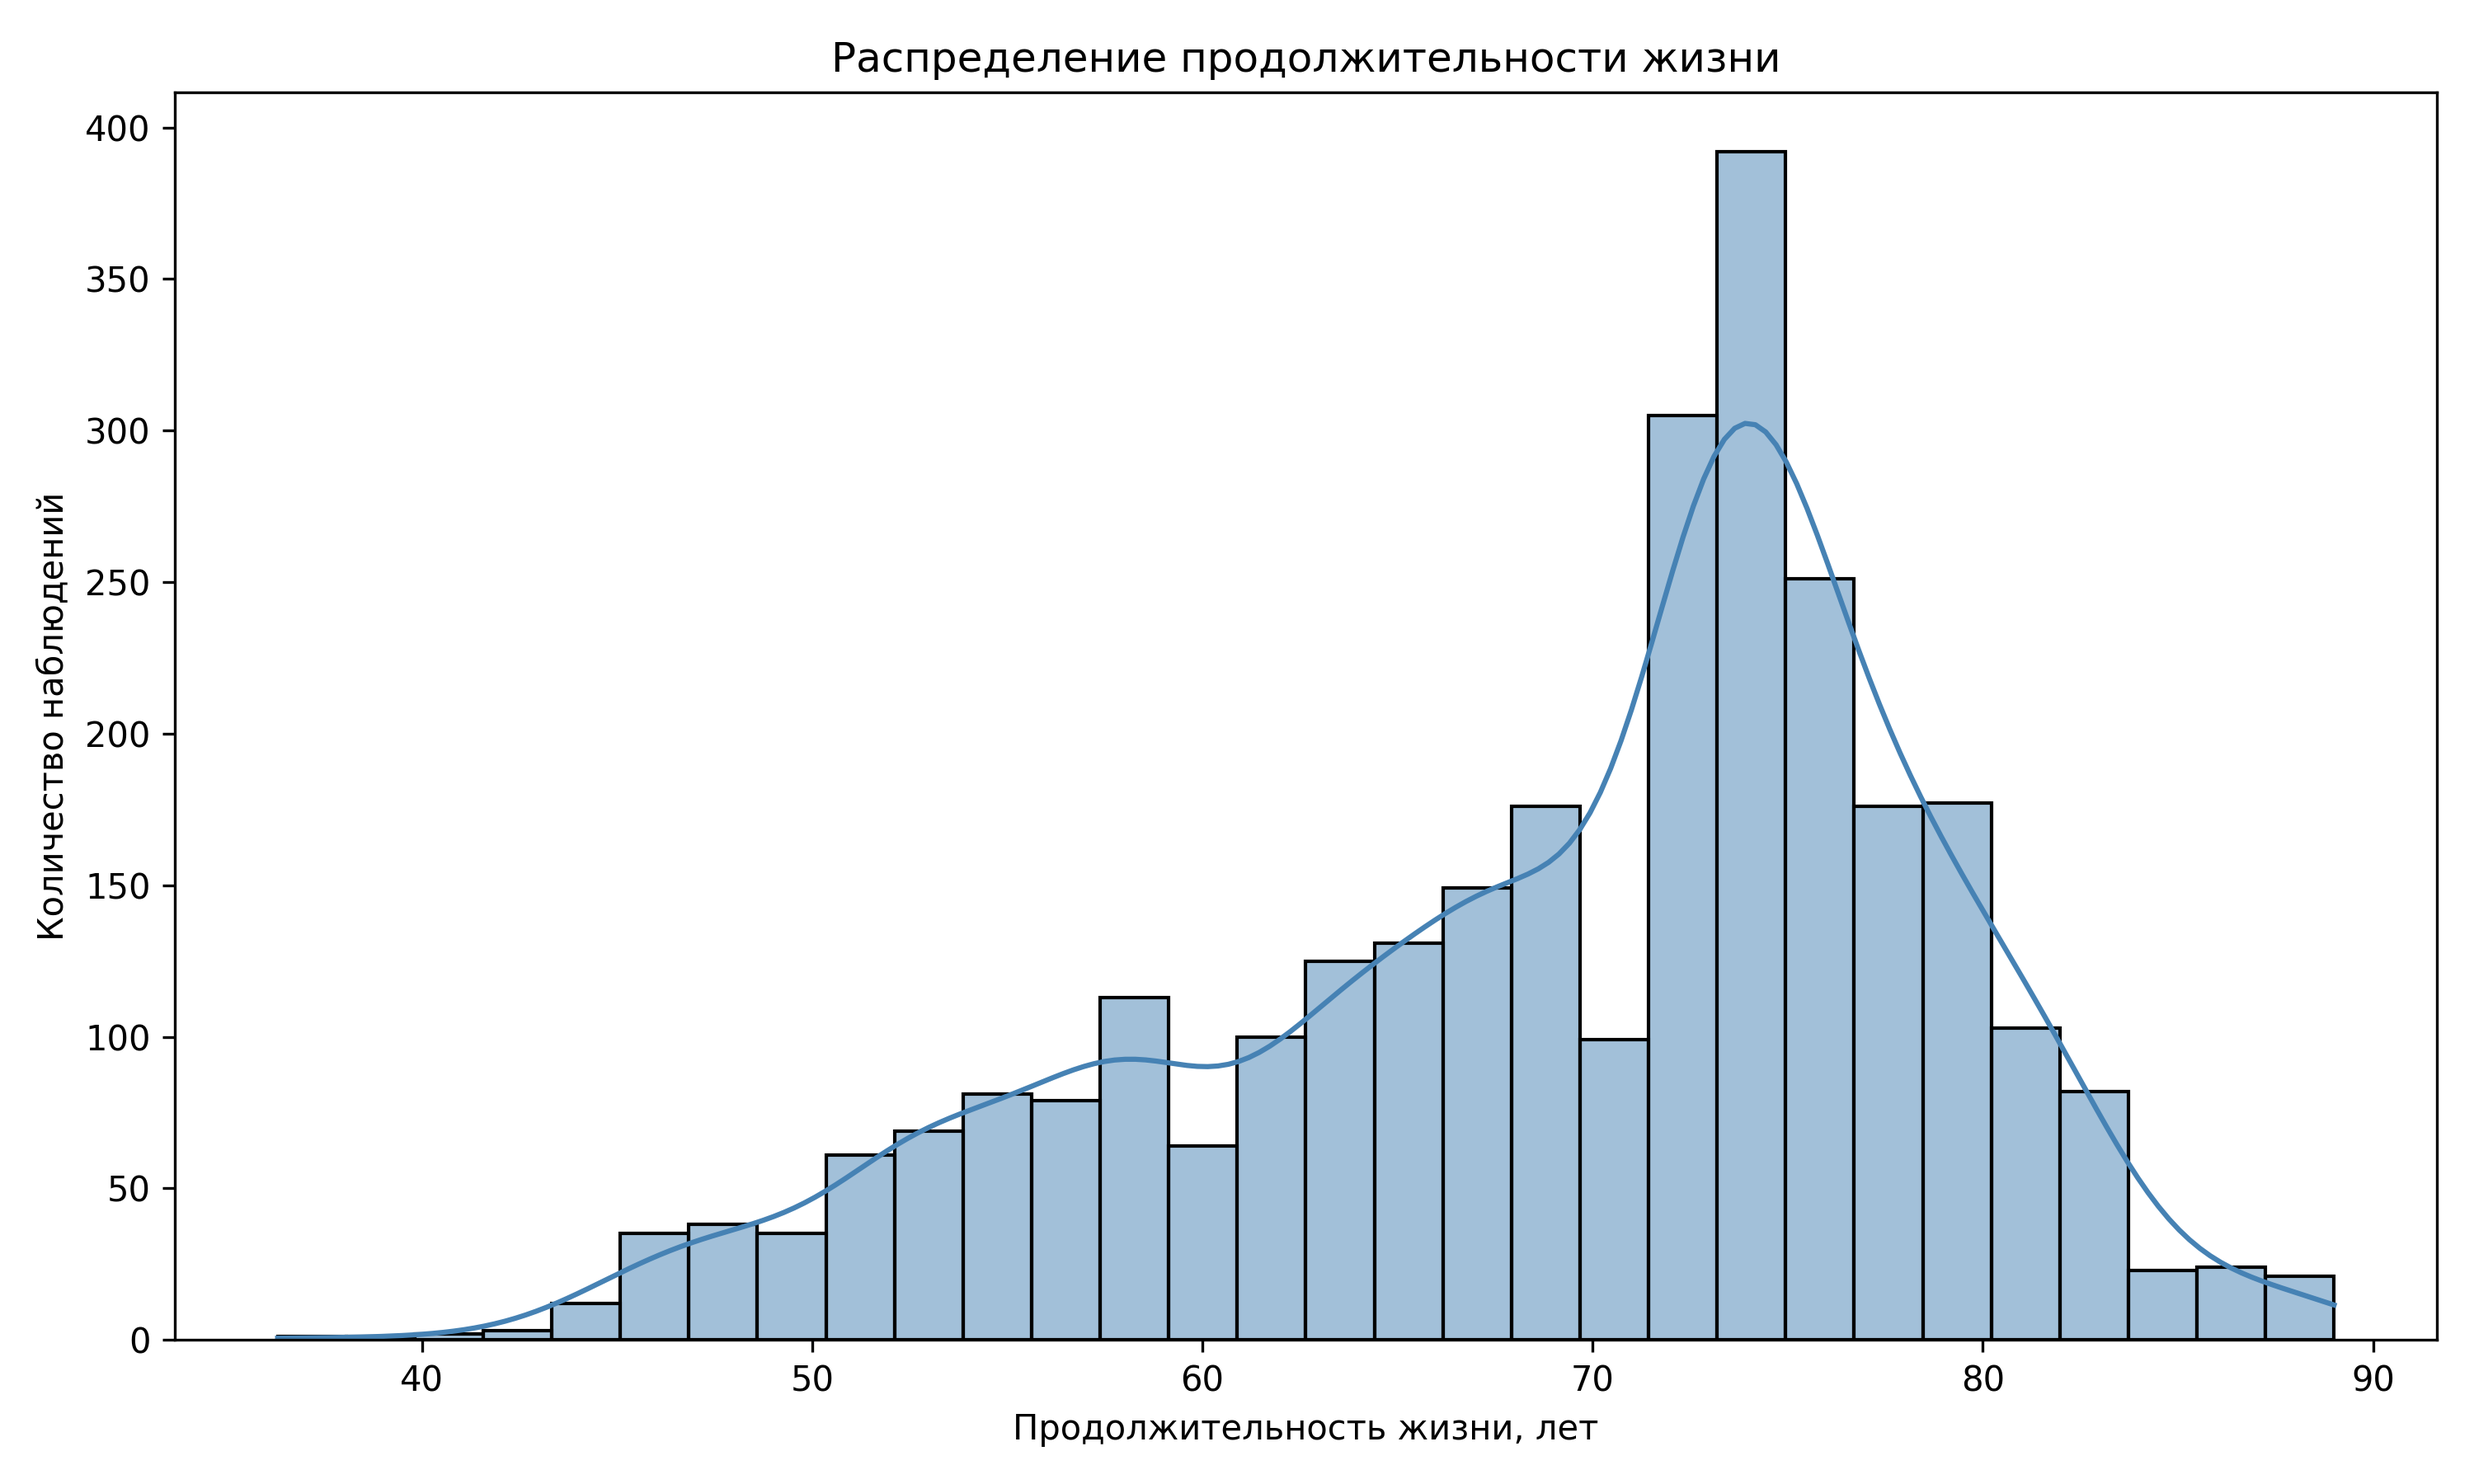
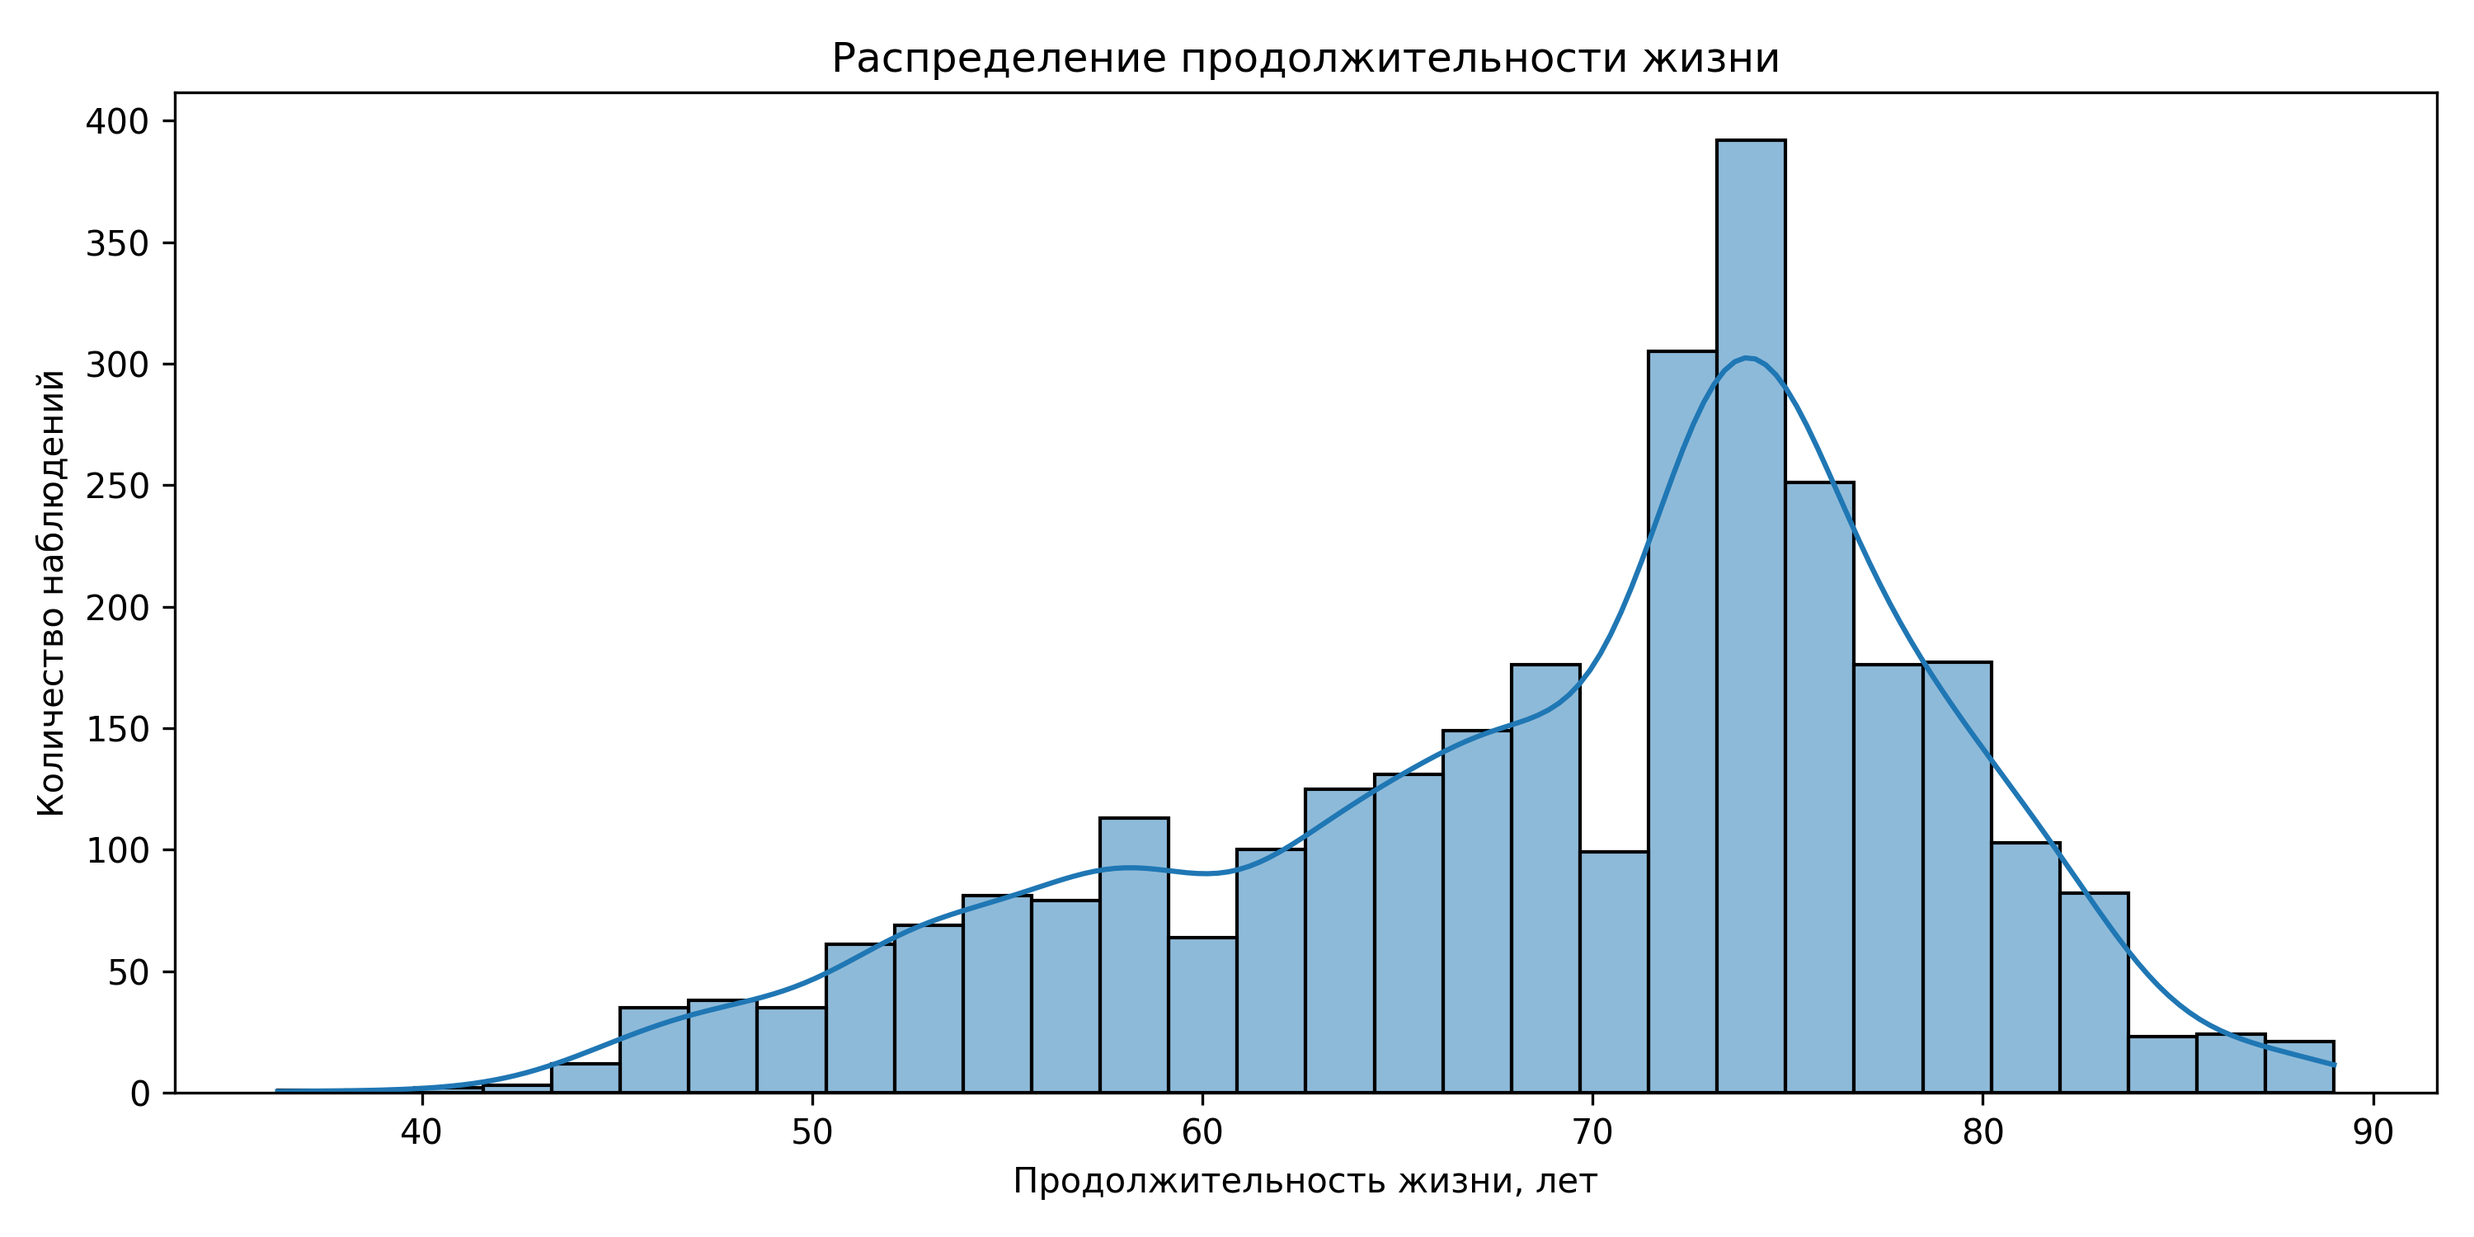
new3

diff --git a/main.py b/main.py
@@ -1,84 +1,84 @@
+
 from pathlib import Path
 import pandas as pd
 import numpy as np
 import matplotlib.pyplot as plt
 import seaborn as sns
 
+from sklearn.model_selection import GroupShuffleSplit
+
 BASE_DIR = Path(__file__).resolve().parent
 
 DATA_PATH = BASE_DIR / "data" / "Life Expectancy Data.csv"
-
 FIGURES_DIR = BASE_DIR / "results" / "figures"
 TABLES_DIR = BASE_DIR / "results" / "tables"
 
 df = pd.read_csv(DATA_PATH)
 df.columns = df.columns.str.strip()
 
+print("Загрузка данных")
 print("Размер датасета:", df.shape)
 print(df.head())
 df.info()
 
+
 print("\nОписательные статистики")
 
 statistics = df.describe().T
-
-print(statistics)
+print(statistics.round(2))
 
 statistics.to_csv(
     TABLES_DIR / "descriptive_statistics.csv",
     encoding="utf-8-sig"
 )
 
+
 print("\nПропущенные значения")
 
-missing_count = df.isna().sum()
-
-missing_percent = (
-    missing_count / len(df) * 100
-)
+missing = df.isna().sum()
 
 missing_table = pd.DataFrame({
-    "Пропуски": missing_count,
-    "Доля (%)": missing_percent
+    "Количество": missing,
+    "Доля (%)": missing / len(df) * 100
 })
 
-missing_table = missing_table.sort_values(
-    by="Пропуски",
-    ascending=False
-)
-
-print(missing_table)
+print(missing_table.sort_values("Количество", ascending=False).round(2))
 
 missing_table.to_csv(
     TABLES_DIR / "missing_values.csv",
     encoding="utf-8-sig"
 )
 
-print("\nПроверка дубликатов")
+plt.figure(figsize=(10, 6))
+missing[missing > 0].sort_values().plot(kind="barh")
 
-duplicates = df.duplicated().sum()
+plt.title("Количество пропущенных значений")
+plt.xlabel("Количество пропусков")
+plt.ylabel("Признаки")
 
-print("Количество полных дубликатов:", duplicates)
+plt.tight_layout()
+plt.savefig(FIGURES_DIR / "missing_values.png", dpi=300)
+plt.show()
+plt.close()
 
-country_year_duplicates = df.duplicated(
-    subset=["Country", "Year"]
-).sum()
+
+print("\nДубликаты")
+
+print("Полных дубликатов:", df.duplicated().sum())
 
 print(
-    "Повторения сочетания Country-Year:",
-    country_year_duplicates
+    "Дубликатов по Country и Year:",
+    df.duplicated(subset=["Country", "Year"]).sum()
 )
 
-print("\nРаспределение целевой переменной")
 
-plt.figure(figsize=(10, 6))
+plt.figure(figsize=(10, 5))
 
 sns.histplot(
     data=df,
     x="Life expectancy",
     bins=30,
-    kde=True,
-    color="steelblue"
+    kde=True
 )
 
 plt.title("Распределение продолжительности жизни")
@@ -86,38 +86,24 @@ plt.xlabel("Продолжительность жизни, лет")
 plt.ylabel("Количество наблюдений")
 
 plt.tight_layout()
-
-plt.savefig(
-    FIGURES_DIR / "life_expectancy_distribution.png",
-    dpi=300
-)
-
+plt.savefig(FIGURES_DIR / "life_expectancy_distribution.png", dpi=300)
 plt.show()
 plt.close()
 
-numeric_columns = df.select_dtypes(
-    include=np.number
-).columns
+numeric_columns = df.select_dtypes(include=np.number).columns
 
 df[numeric_columns].hist(
     figsize=(18, 18),
     bins=25
 )
 
-plt.suptitle(
-    "Распределения числовых признаков",
-    fontsize=16
-)
-
+plt.suptitle("Распределения числовых признаков")
 plt.tight_layout()
 
-plt.savefig(
-    FIGURES_DIR / "numeric_distributions.png",
-    dpi=200
-)
-
+plt.savefig(FIGURES_DIR / "numeric_distributions.png", dpi=200)
 plt.show()
 plt.close()
+
 
 features = [
     "Schooling",
@@ -126,10 +112,7 @@ features = [
     "BMI"
 ]
 
-fig, axes = plt.subplots(
-    2, 2,
-    figsize=(12, 10)
-)
+fig, axes = plt.subplots(2, 2, figsize=(12, 9))
 
 for ax, feature in zip(axes.flat, features):
     sns.scatterplot(
@@ -139,18 +122,37 @@ for ax, feature in zip(axes.flat, features):
         alpha=0.5,
         ax=ax
     )
-
-    ax.set_title(f"{feature} и продолжительность жизни")
+    ax.set_title(feature)
 
 plt.tight_layout()
-
-plt.savefig(
-    FIGURES_DIR / "features_vs_target.png",
-    dpi=300
-)
-
+plt.savefig(FIGURES_DIR / "features_vs_target.png", dpi=300)
 plt.show()
 plt.close()
+
+
+print("\nКорреляционная матрица")
+
+corr_matrix = df.select_dtypes(
+    include=np.number
+).corr(method="pearson")
+
+plt.figure(figsize=(16, 12))
+
+sns.heatmap(
+    corr_matrix,
+    annot=True,
+    fmt=".2f",
+    cmap="coolwarm",
+    center=0
+)
+
+plt.title("Корреляционная матрица признаков")
+plt.tight_layout()
+
+plt.savefig(FIGURES_DIR / "correlation_matrix.png", dpi=300)
+plt.show()
+plt.close()
+
 
 outlier_features = [
     "Life expectancy",
@@ -159,10 +161,7 @@ outlier_features = [
     "Schooling"
 ]
 
-fig, axes = plt.subplots(
-    2, 2,
-    figsize=(12, 8)
-)
+fig, axes = plt.subplots(2, 2, figsize=(12, 8))
 
 for ax, feature in zip(axes.flat, outlier_features):
     sns.boxplot(
@@ -170,38 +169,116 @@ for ax, feature in zip(axes.flat, outlier_features):
         x=feature,
         ax=ax
     )
-
-    ax.set_title(f"Выбросы: {feature}")
+    ax.set_title(feature)
 
 plt.tight_layout()
-
-plt.savefig(
-    FIGURES_DIR / "outliers_boxplot.png",
-    dpi=300
-)
-
+plt.savefig(FIGURES_DIR / "outliers_boxplot.png", dpi=300)
 plt.show()
 plt.close()
+
 
 print("\nОчистка данных")
 
 df_clean = df.dropna().copy()
 
-print("Строк до очистки:", len(df))
-print("Строк после очистки:", len(df_clean))
+print("До очистки:", df.shape)
+print("После очистки:", df_clean.shape)
+print("Удалено строк:", len(df) - len(df_clean))
+print("Осталось пропусков:", df_clean.isna().sum().sum())
+
+rows = pd.Series({
+    "До очистки": len(df),
+    "После очистки": len(df_clean)
+})
+
+plt.figure(figsize=(7, 4))
+rows.plot(kind="bar")
+
+plt.title("Количество наблюдений до и после очистки")
+plt.ylabel("Количество наблюдений")
+plt.xticks(rotation=0)
+
+plt.tight_layout()
+plt.savefig(FIGURES_DIR / "data_cleaning.png", dpi=300)
+plt.show()
+plt.close()
+
+
+df_clean["Status"] = df_clean["Status"].map({
+    "Developing": 0,
+    "Developed": 1
+})
+
+print(df_clean["Status"].value_counts())
+
+plt.figure(figsize=(7, 4))
+
+sns.countplot(data=df_clean, x="Status")
+
+plt.title("Количество наблюдений по статусу страны")
+plt.xlabel("Статус (0 — Developing, 1 — Developed)")
+plt.ylabel("Количество наблюдений")
+
+plt.tight_layout()
+plt.savefig(FIGURES_DIR / "status_distribution.png", dpi=300)
+plt.show()
+plt.close()
+
+print("\nФормирование X и y")
+
+X = df_clean.drop(columns=["Country", "Life expectancy"])
+y = df_clean["Life expectancy"]
+groups = df_clean["Country"]
+
+print("Размер X:", X.shape)
+print("Размер y:", y.shape)
+
+
+print("\nРазделение данных")
+
+splitter = GroupShuffleSplit(
+    n_splits=1,
+    test_size=0.2,
+    random_state=42
+)
+
+train_idx, test_idx = next(
+    splitter.split(X, y, groups=groups)
+)
+
+X_train = X.iloc[train_idx]
+X_test = X.iloc[test_idx]
+
+y_train = y.iloc[train_idx]
+y_test = y.iloc[test_idx]
+
+groups_train = groups.iloc[train_idx]
+
+print("X_train:", X_train.shape)
+print("X_test:", X_test.shape)
+print("y_train:", y_train.shape)
+print("y_test:", y_test.shape)
 
 print(
-    "Удалено строк:",
-    len(df) - len(df_clean)
+    "Общие страны:",
+    set(groups.iloc[train_idx]) & set(groups.iloc[test_idx])
 )
 
-print(
-    "Осталось пропусков:",
-    df_clean.isna().sum().sum()
-)
+sizes = pd.Series({
+    "Обучающая": len(X_train),
+    "Тестовая": len(X_test)
+})
 
-df_clean.to_csv(
-    TABLES_DIR / "cleaned_data.csv",
-    index=False,
-    encoding="utf-8-sig"
-)
+plt.figure(figsize=(7, 4))
+sizes.plot(kind="bar")
+
+plt.title("Разделение на обучающую и тестовую выборки")
+plt.ylabel("Количество наблюдений")
+plt.xticks(rotation=0)
+
+plt.tight_layout()
+plt.savefig(FIGURES_DIR / "train_test_split.png", dpi=300)
+plt.show()
+plt.close()
+
+print("\nПодготовка данных завершена.")
